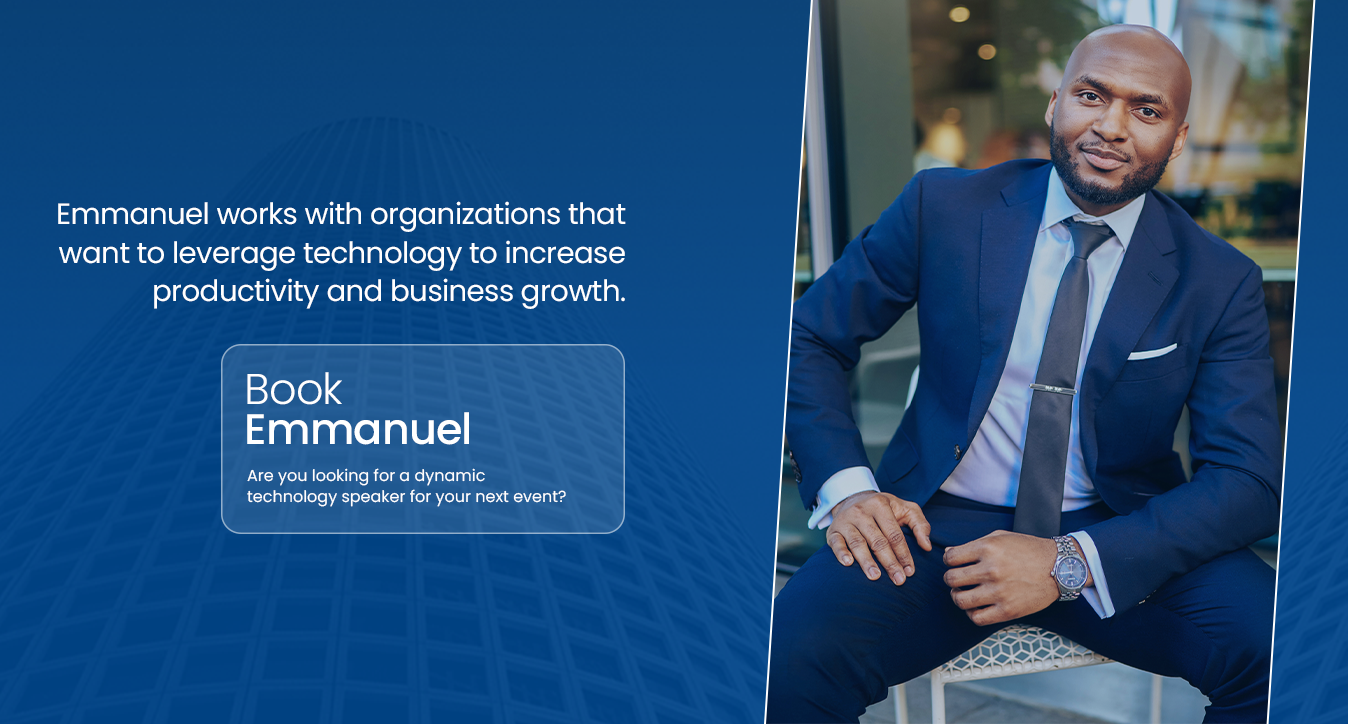
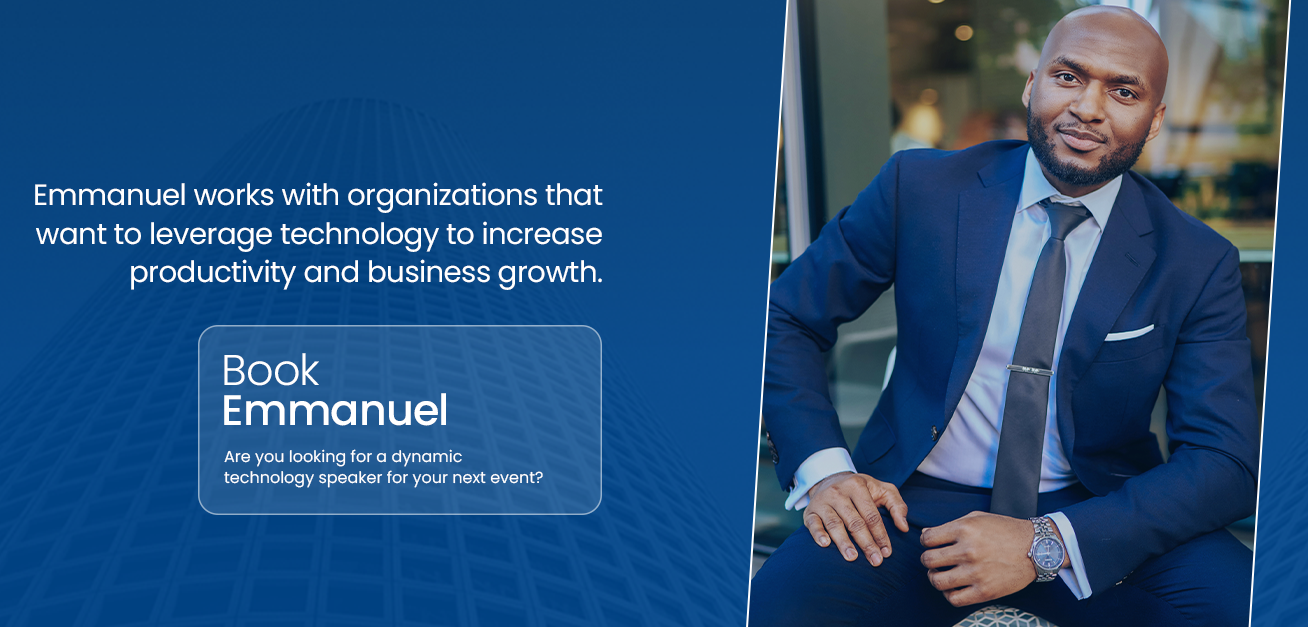
web update

Changed region(s): [[0.5505, 0.0, 1.0, 1.0], [0.0306, 0.2727, 0.4893, 0.8485], [0.581, 0.0606, 0.6116, 0.1212]]

diff --git a/speaker.html b/speaker.html
@@ -74,35 +74,38 @@
       </form>
     </div>
   </nav>
- <div style="background-color:#004489; width:100%; height: 600px; opacity: 2;"  class="container-fluid">
-  <br>
-	<div id="carouselExampleIndicators" class="carousel slide" >
-		<ol class="carousel-indicators">
-			<li data-target="#carouselExampleIndicators" data-slide-to="0" class="active"></li>
-			<li data-target="#carouselExampleIndicators" data-slide-to="1"></li>
-		</ol>
-		<center>
-			<div  style="border-radius: 10px;" class="carousel-inner">
-				<div class="carousel-item active">
-					<video style="border-radius: 12px;" playsinline="playsinline" autoplay="autoplay" muted="muted" loop="loop">
-						<source src="./images/speakerpageVideo.mp4" type="video/mp4">
-					  </video>
-				
-				</div>
-				<div class="carousel-item">
-					<img style="border-radius: 12px;" height="550px" src="./images/speakerpageBanner.png" alt="First slide">
-				</div>
-		</center>
-		</div>
-		<a style="opacity:0.5 #004489;" class="carousel-control-prev" href="#carouselExampleIndicators" role="button" data-slide="prev">
-			<span class="carousel-control-prev-icon" aria-hidden="true"></span>
-			<span class="sr-only">Previous</span>
-		</a>
-		<a class="carousel-control-next" href="#carouselExampleIndicators" role="button" data-slide="next">
-			<span class="carousel-control-next-icon" aria-hidden="true"></span>
-			<span class="sr-only">Next</span>
-		</a>
-	</div>
+  <div style="background-color:#004489;" class="img-fluid"  alt="Responsive image">
+	
+    <div id="carouselExampleIndicators" class="carousel slide img-fluid" >
+      <ol class="carousel-indicators">
+        <li data-target="#carouselExampleIndicators" data-slide-to="0" class="active"></li>
+        <li data-target="#carouselExampleIndicators" data-slide-to="1"></li>
+      </ol>
+      <center>
+        <div   class="carousel-inner">
+          <div class="carousel-item active">
+            <video class="img-fluid" style="border-radius: 12px;" playsinline="playsinline" autoplay="autoplay" muted="muted" loop="loop">
+              <source   src="./images/speakerpageVideo.mp4" type="video/mp4">
+              </video>
+          
+          </div>
+          <div class="carousel-item">
+            <img class="img-fluid" style="border-radius: 12px;" height="350px" src="./images/speakerpageBanner.png" alt="First slide">
+          </div>
+      
+      </div>
+      <a class="carousel-control-prev" href="#carouselExampleIndicators" role="button" data-slide="prev">
+        <span class="carousel-control-prev-icon" aria-hidden="true"></span>
+        <span class="sr-only">Previous</span>
+      </a>
+      <a class="carousel-control-next" href="#carouselExampleIndicators" role="button" data-slide="next">
+        <span class="carousel-control-next-icon" aria-hidden="true"></span>
+        <span class="sr-only">Next</span>
+      </a>
+    </center>
+    </div>
+    <br>
+  </div>
   <div class="container-fluid" style="width: 95%;">
     <br><br><br>
     <center>

diff --git a/home.html b/home.html
@@ -152,30 +152,28 @@
 	</nav>
 	<!-- Header Close -->
 
-	<div class="overlay"></div>
-
 	<!-- The HTML5 video element that will create the background video on the header -->
 
 
 <!-- Carousel wrapper -->
 	<!-- Slider Start -->
-<div style="background-color:#004489; width:100%; height: 600px; opacity: 2;" class="container-fluid">
-	<br>
-	<div id="carouselExampleIndicators" class="carousel slide" >
+<div style="background-color:#004489;" class="img-fluid"  alt="Responsive image">
+	
+	<div id="carouselExampleIndicators" class="carousel slide img-fluid" >
 		<ol class="carousel-indicators">
 			<li data-target="#carouselExampleIndicators" data-slide-to="0" class="active"></li>
 			<li data-target="#carouselExampleIndicators" data-slide-to="1"></li>
 		</ol>
 		<center>
-			<div  class="carousel-inner">
+			<div   class="carousel-inner">
 				<div class="carousel-item active">
-					<video style="border-radius: 12px;" playsinline="playsinline" autoplay="autoplay" muted="muted" loop="loop">
+					<video class="img-fluid" style="border-radius: 12px;" playsinline="playsinline" autoplay="autoplay" muted="muted" loop="loop">
 						<source   src="./images/homepageVideo.mp4" type="video/mp4">
 					  </video>
 				
 				</div>
 				<div class="carousel-item">
-					<img style="border-radius: 12px;" height="550px" src="./images/homepageBanner.png" alt="First slide">
+					<img class="img-fluid" style="border-radius: 12px;" height="350px" src="./images/homepageBanner.png" alt="First slide">
 				</div>
 		
 		</div>
@@ -189,6 +187,7 @@
 		</a>
 	</center>
 	</div>
+	<br>
 </div>
 	<!-- Section Intro Start -->
 	<section style="background-color:white;" class="section intro">
@@ -216,7 +215,7 @@
 				</div>
 				<div style="align-items:center; text-align: center; justify-content: center; " class="col-lg-6">
 					<br><br>
-					<img src="./images/homeAbout.jpg" height="20%" width="70%" alt="..." class="img-thumbnail">
+					<img src="./images/homeabout.jpg" height="20%" width="70%" alt="..." class="img-thumbnail">
 				</div>
 			</div>
 		</div>

diff --git a/about.html b/about.html
@@ -549,7 +549,7 @@
                 placeholder="Email" aria-describedby="basic-addon2">
               <div class="input-group-append">
                 <button type="submit" id="myBtn2"
-                  style="background-color: #004489; font-family:MyWebFont; padding: 8px;" class="btn btn-outline-light"
+                  style="background-color: #004489; font-family:MyWebFont; padding: 8px; height: 44px;margin-top: 8px;" class="btn btn-outline-light"
                   type="button">Suscribe</button>
               </div>
             </div>

diff --git a/index.html b/index.html
@@ -1,7 +1,7 @@
 <!DOCTYPE html>
 <html>
   <head>
-    <meta http-equiv="refresh" content="0; url='/home'" />
+    <meta http-equiv="refresh" content="0; url='https://eekwedike.github.io/home'" />
   </head>
 
 </html>
